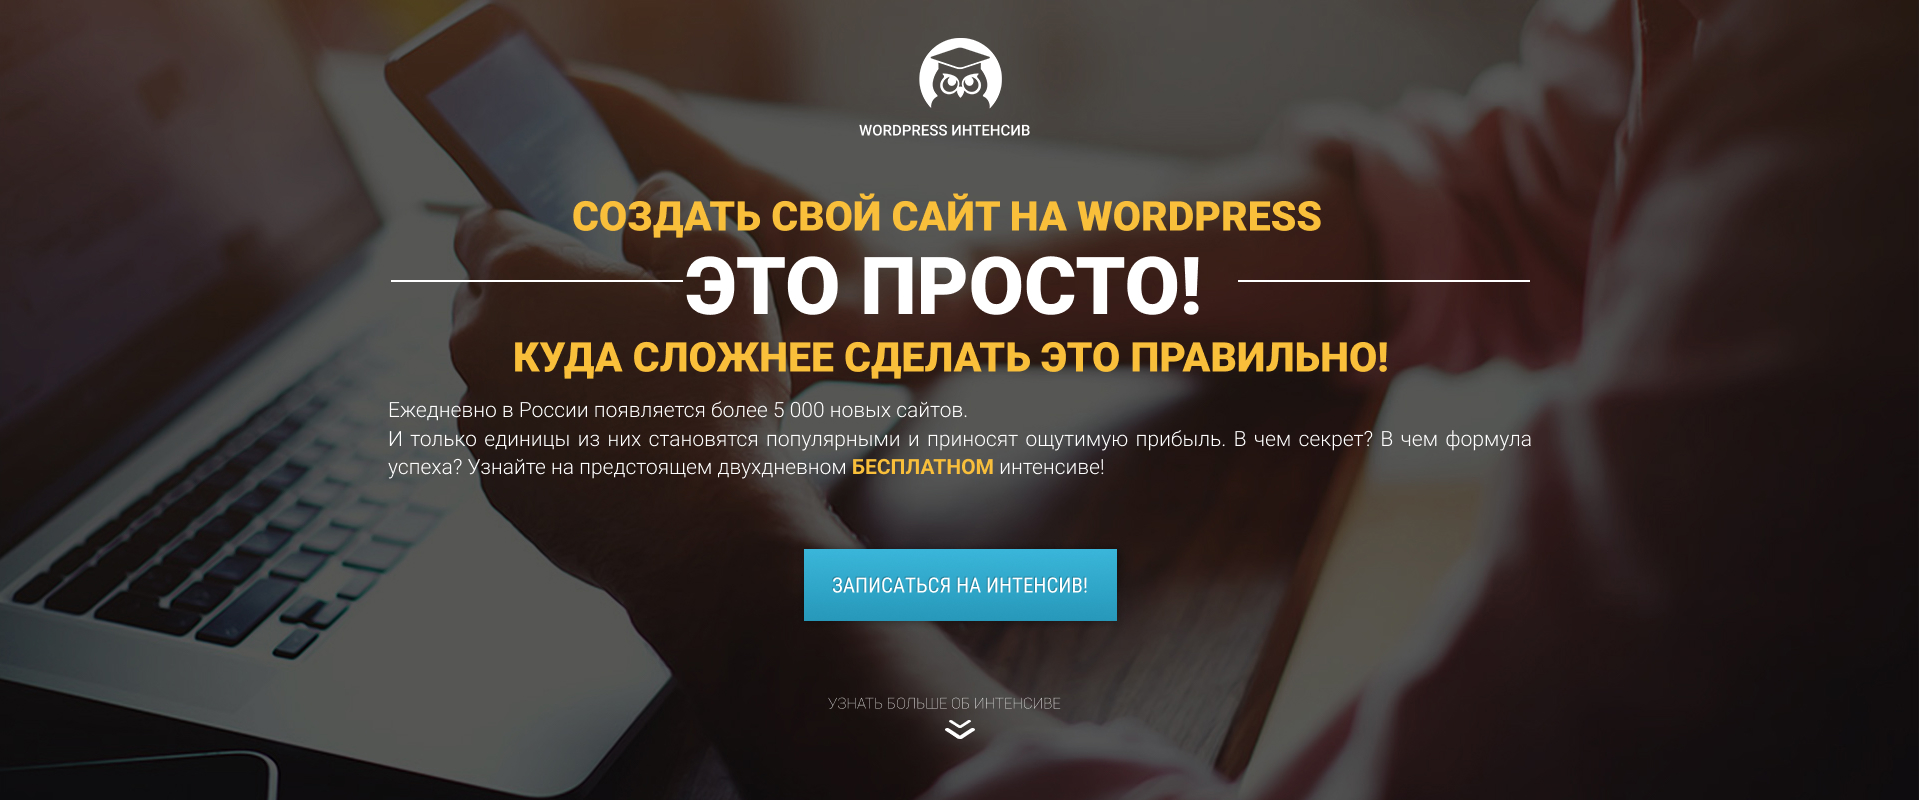
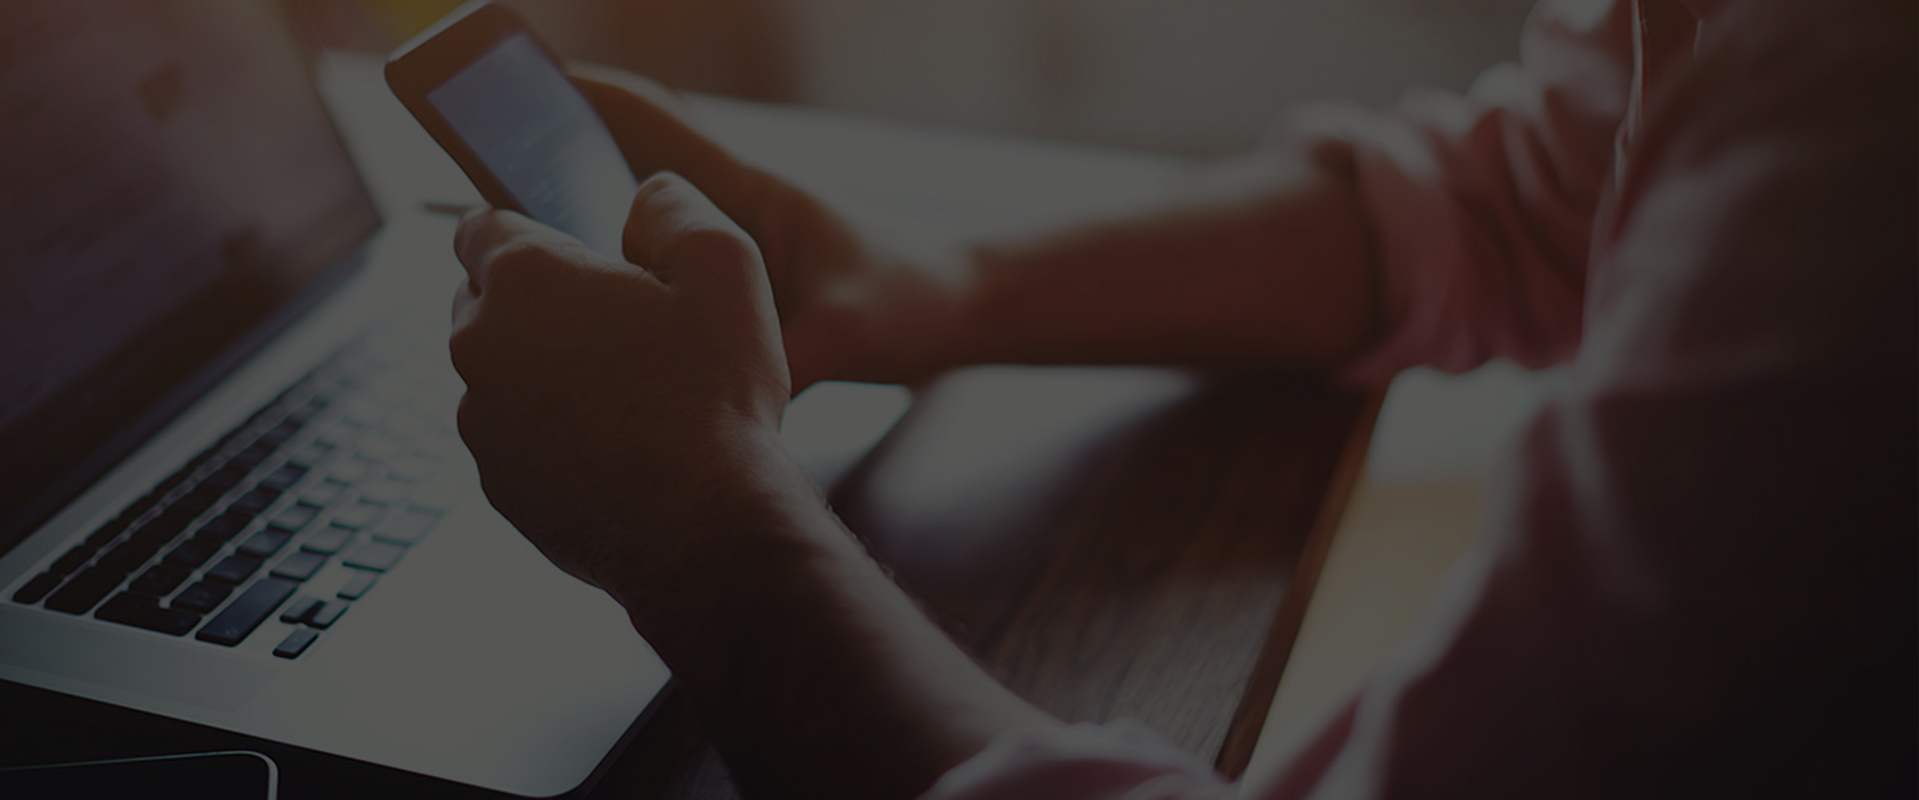
Second commit

diff --git a/css/style.css b/css/style.css
@@ -1,0 +1,70 @@
+* {
+  box-sizing: border-box;
+  margin: 0;
+  padding: 0; /* Устанавливаем m, p в ноль, чтобы все элементы сбросили свои значения по умолчанию */
+}
+
+.container {
+  width: 1140px;
+  margin: 0 auto;
+}
+
+.promo {
+  height: 800px;
+  background: url(../img/bg/main_bg.jpg) center center/ cover no-repeat;
+  padding: 39px 0 62px 0;
+}
+
+.logo .logo_img {
+  display: block;
+  margin: 0 auto;
+}
+
+.logo .logo_text {
+  color: #fff;
+  font-family: Roboto;
+  font-size: 15px;
+  font-weight: 500;
+  line-height: 24px;
+  text-transform: uppercase;
+  text-align: center;
+  margin-top: 14px;
+}
+
+h1 {
+  margin-top: 53px;
+}
+
+.title {
+  color: #f9bf3b;
+  font-family: Roboto;
+  font-size: 41px;
+  font-weight: 900;
+  line-height: 24px;
+  text-transform: uppercase;
+  text-align: center;
+}
+
+h2.title {
+  margin-top: 30px;
+}
+
+.simple .title_big {
+  color: #fff;
+  font-family: Roboto;
+  font-size: 80px;
+  font-weight: 900;
+  line-height: 80px;
+  text-transform: uppercase;
+  text-align: center;
+  margin-top: 21px;
+}
+
+.promo .promo_text {
+  color: #fff;
+  font-family: Roboto;
+  font-size: 21px;
+  font-weight: 300;
+  line-height: 28px;
+  text-align: center;
+}

diff --git a/index.html b/index.html
@@ -5,6 +5,32 @@
     <meta name="viewport" content="width=device-width, initial-scale=1.0" />
     <meta http-equiv="X-UA-Compatible" content="ie=edge" />
     <title>Wordpress intensive</title>
+    <link rel="stylesheet" href="css/style.css" />
   </head>
-  <body></body>
+  <body>
+    <section class="promo">
+      <div class="container">
+        <div class="logo">
+          <img src="icons/logo.png" alt="" class="logo_img" />
+          <div class="logo_text">WordPress intensive</div>
+        </div>
+
+        <h1 class="title">Create your own WordPress site</h1>
+
+        <div class="simple">
+          <h2 class="title_big">it's simple!</h2>
+          <div class="line"></div>
+
+          <h2 class="title">Much harder to do it right!</h2>
+
+          <div class="promo_text">
+            More than 5,000 new websites appear in Ukraine every day.<br />
+            And only a few of them become popular and bring significant profits.
+            What's the secret? What is the formula for success? Find out at the
+            upcoming two-day <span>FREE</span> intensive!
+          </div>
+        </div>
+      </div>
+    </section>
+  </body>
 </html>
